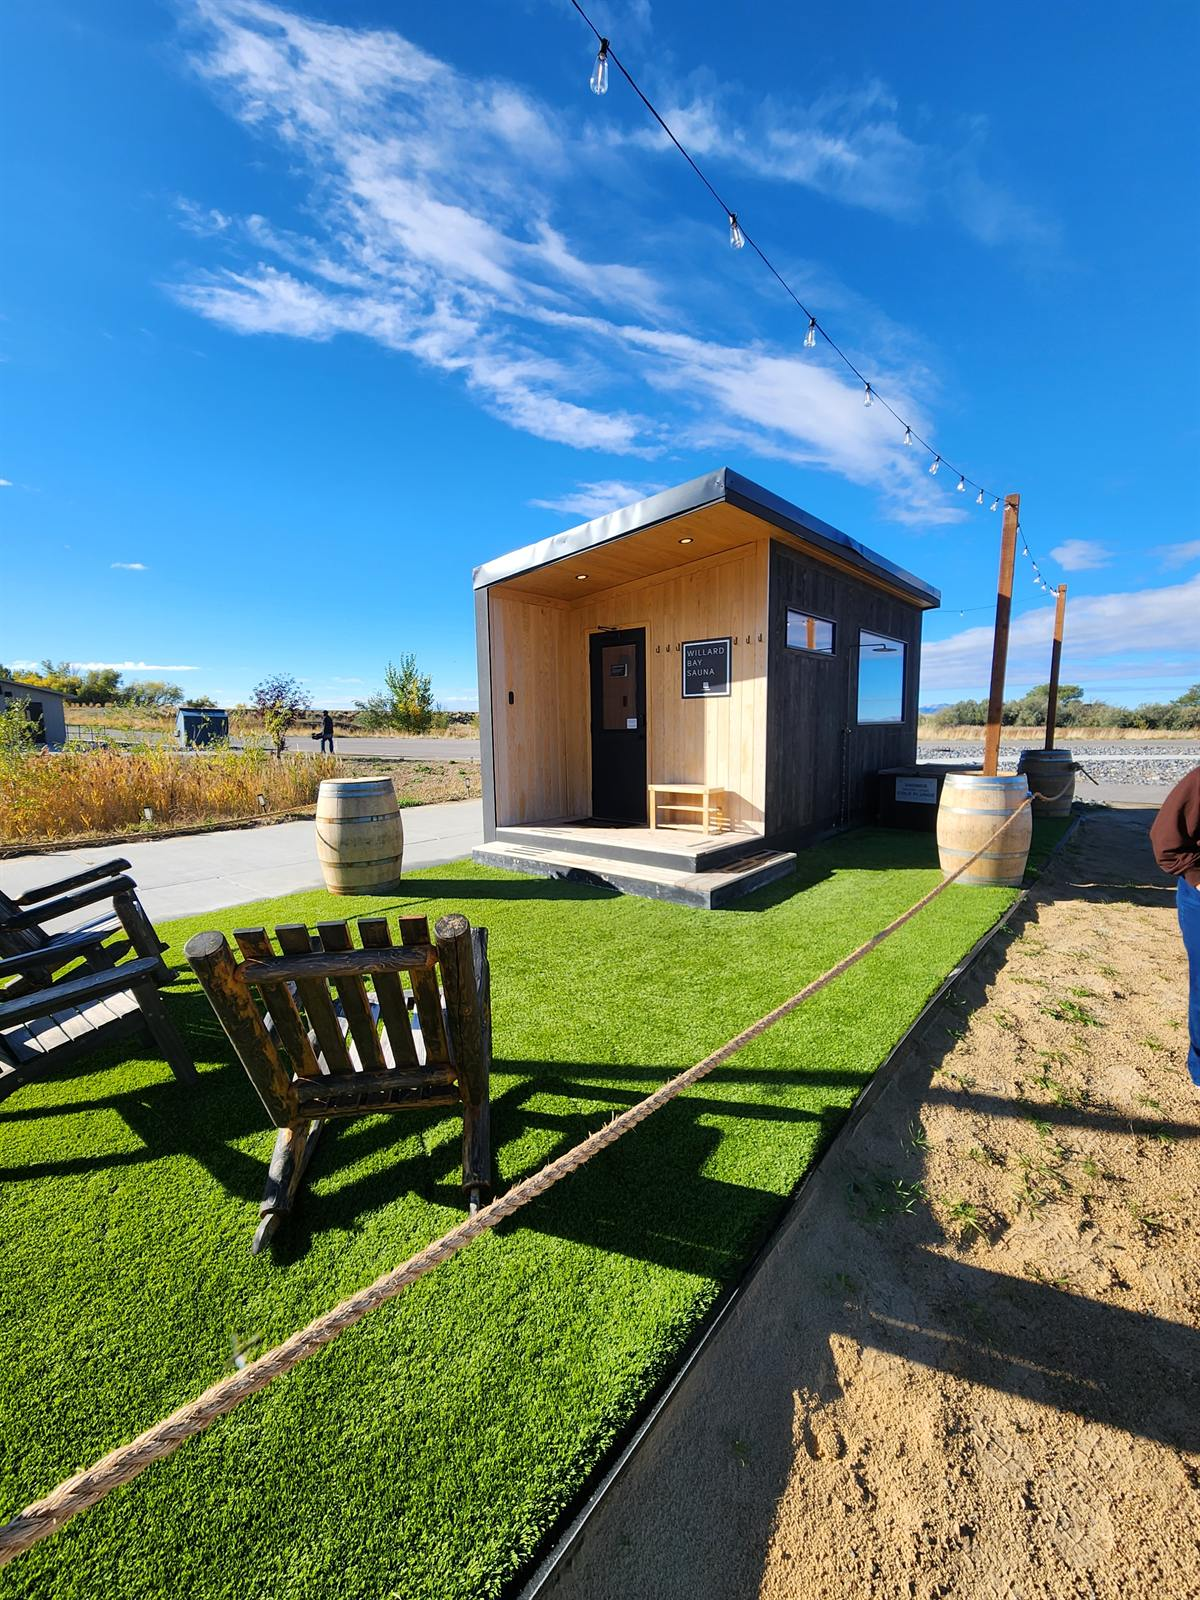
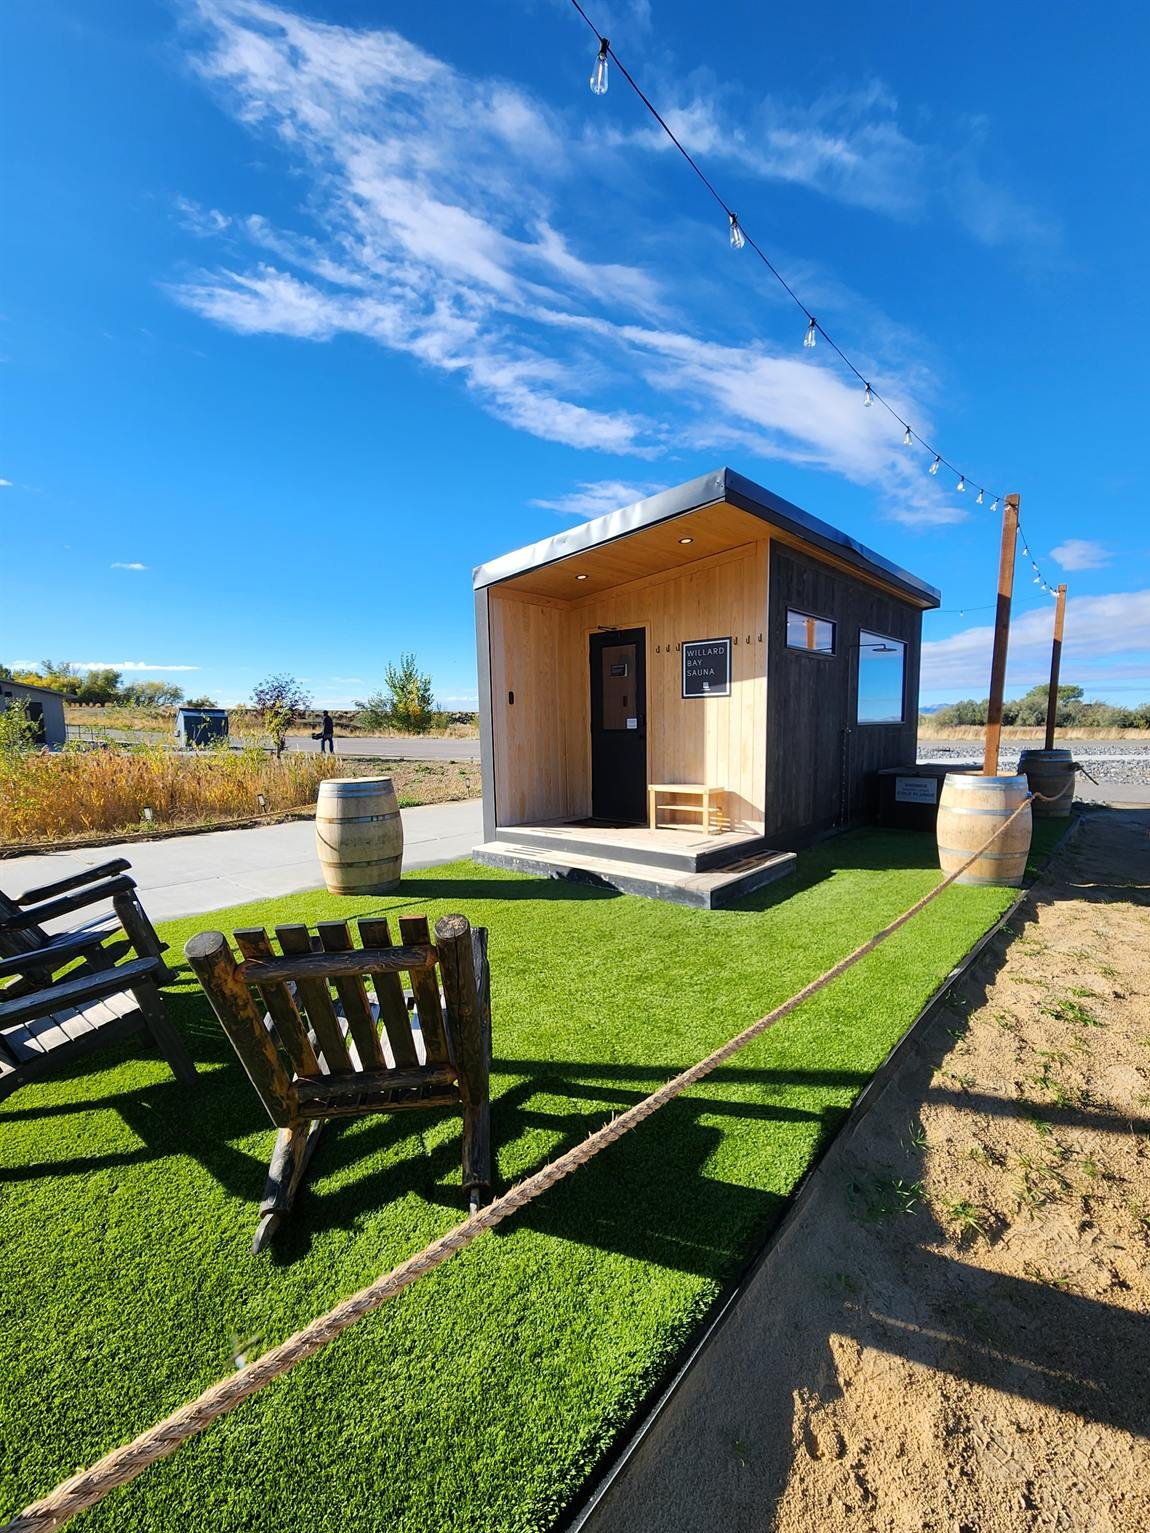
Crop people out of three photos and update descriptions

diff --git a/script.js b/script.js
@@ -250,7 +250,7 @@ const DATA = {
   hotelPhotos: [
     { file: '20261023_171344.jpg', alt: 'Exterior of the Best Western Plus High Country Inn with stone pillars and a green lawn', caption: 'Best Western Plus High Country Inn' },
     { file: '20261023_171333.jpg', alt: 'Curving sidewalk through the hotel\'s landscaped back garden under a big cloudy sky', caption: 'The back garden: our home base' },
-    { file: '20261023_171336.jpg', alt: 'Family member taking photos on the hotel garden paths, with mountains in the distance', caption: 'Garden paths with mountain views' },
+    { file: '20261023_171336.jpg', alt: 'Hotel garden lawn, stone planters and patio seating with mountains in the distance', caption: 'Garden paths with mountain views' },
   ],
   lakeDayPhotos: [
     { file: '20261024_104116.jpg', alt: 'Covered Eagle Beach group pavilion with picnic tables at Willard Bay; a sign says by reservation only', caption: 'Eagle Beach group pavilion' },
@@ -591,7 +591,7 @@ const DATA = {
   /* ---------- Scouting-trip gallery (files in /images) ---------- */
   gallery: [
     { file: '20261023_171333.jpg', alt: 'Curving sidewalk through the hotel\'s landscaped back garden under a big cloudy sky', caption: 'The hotel\'s back garden: our home base' },
-    { file: '20261023_171336.jpg', alt: 'Family member taking photos on a garden path, with mountains in the distance', caption: 'Scouting the garden paths' },
+    { file: '20261023_171336.jpg', alt: 'Hotel garden lawn, stone planters and patio seating with mountains in the distance', caption: 'Garden patio with mountain views' },
     { file: '20261023_171342.jpg', alt: 'Rustic lodge-style building with a stone chimney across a green lawn at the hotel', caption: 'Lodge building on the hotel grounds' },
     { file: '20261023_171344.jpg', alt: 'Exterior of the Best Western Plus High Country Inn with stone pillars and a green lawn', caption: 'Best Western Plus High Country Inn' },
     { file: '20261024_093520.jpg', alt: 'Banquet room set with round tables and white tablecloths', caption: 'Banquet room' },
